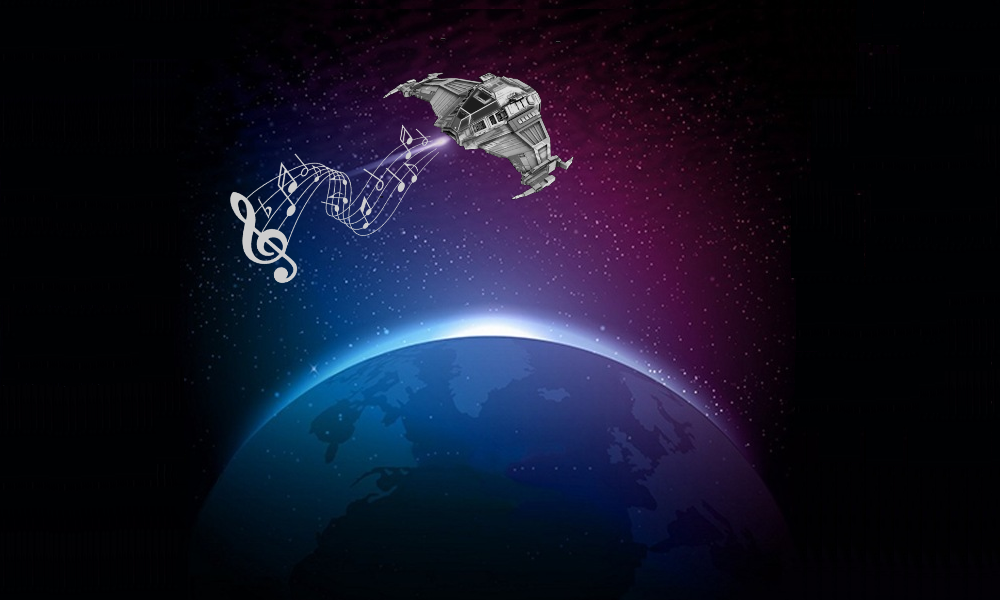
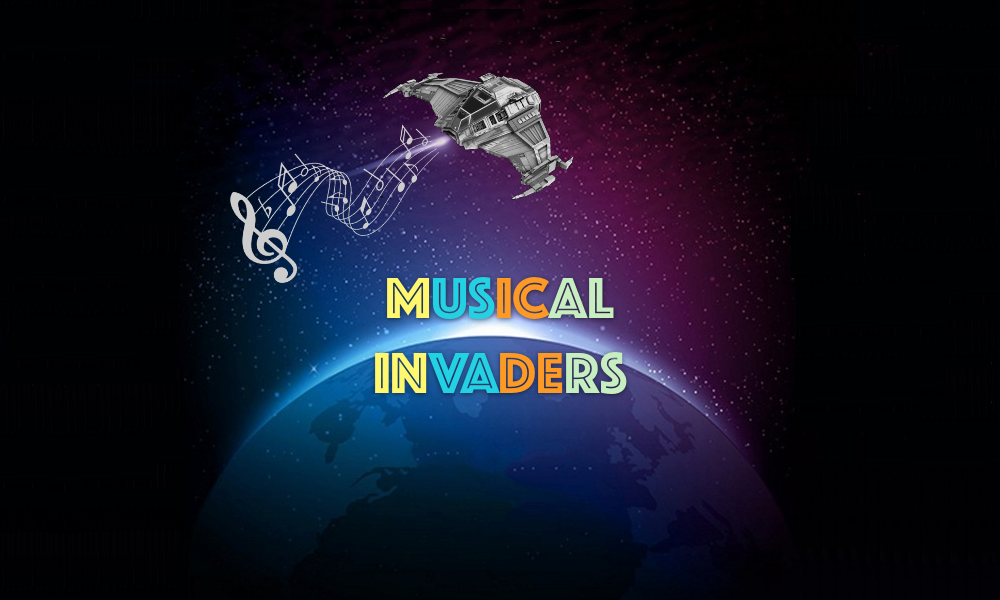
changing enemies and home screen

Changed region(s): [[0.372, 0.57, 0.651, 0.66], [0.372, 0.45, 0.62, 0.54]]

diff --git a/src/scenes/end.js b/src/scenes/end.js
@@ -44,7 +44,7 @@ export class EndScene extends Phaser.Scene {
     var endText = this.make.text({
       x: Config.width / 2,
       y: Config.height * 0.50,
-      text: 'Music is heard on your planet no more',
+      text: 'Music is heard on your planet no more!',
       style: {
         font: '30px monospace',
         fill: '#49E1D1'

diff --git a/src/scenes/home.js b/src/scenes/home.js
@@ -22,7 +22,7 @@ export class HomeScene extends Phaser.Scene {
 
   setupButton () {
     let buttonX = Config.width / 2
-    let buttonY = Config.height * 0.75
+    let buttonY = Config.height * 0.85
     this.startBtn = this.add.sprite(buttonX, buttonY, 'startButton').setInteractive()
 
     this.startBtn.on('pointerover', (e) => {
